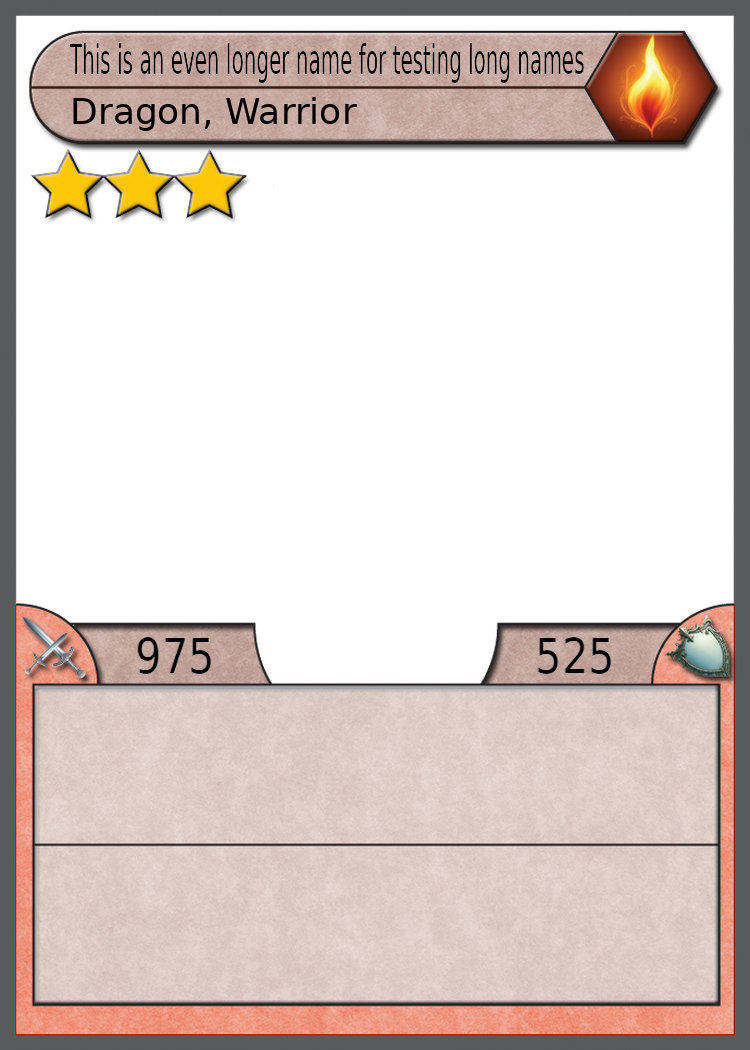
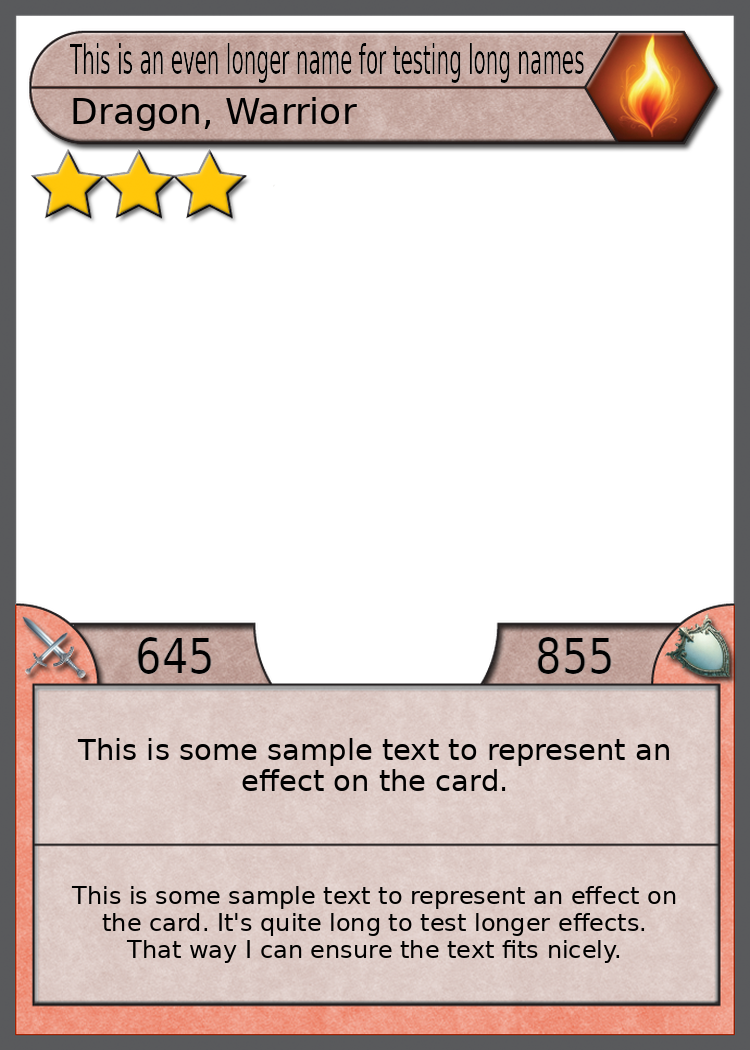
Added some effect text positioning to card generating script

diff --git a/bin/create_card.py b/bin/create_card.py
@@ -169,6 +169,68 @@ def draw_single_line_text(draw, text, top_left, bottom_right, initial_font_size=
     draw._image.paste(squished_img, (x1, y1), squished_img)
 
 
+def draw_wrapped_text(draw, text, top_left, bottom_right, initial_font_size=50, color=(0, 0, 0, 255)):
+    """
+    Draws wrapped text within a box defined by top-left and bottom-right corners,
+    auto-adjusting font size to fit vertically, with text centered both spatially
+    (vertically and horizontally in the box) and in alignment (each line center-aligned).
+    
+    Args:
+        draw (ImageDraw.Draw): The drawing context for the image.
+        text (str): The text to draw.
+        top_left (tuple): (x, y) coordinates of the top-left corner of the box.
+        bottom_right (tuple): (x, y) coordinates of the bottom-right corner of the box.
+        initial_font_size (int): Starting font size to try (default 50).
+        color (tuple): RGBA color tuple (default black: (0, 0, 0, 255)).
+    """
+    import textwrap
+
+    # Calculate box dimensions
+    x1, y1 = top_left
+    x2, y2 = bottom_right        
+    box_width = x2 - x1
+    box_height = y2 - y1
+
+    # Use DejaVu Sans font
+    font_path = "/usr/share/fonts/truetype/dejavu/DejaVuSans.ttf"
+    try:
+        font = ImageFont.truetype(font_path, initial_font_size)
+    except:
+        font = ImageFont.load_default()
+        initial_font_size = 12  # Default font is small, approximate size
+
+    # Start with initial font size and adjust downward for height
+    font_size = initial_font_size
+    while font_size > 1:
+        font = ImageFont.truetype(font_path, font_size) if font_path else ImageFont.load_default()
+
+        # Wrap text to fit box width
+        wrapped_text = textwrap.fill(text, width=int(box_width / (font_size * 0.5)))  # Rough chars-per-line estimate
+        bbox = draw.textbbox((0, 0), wrapped_text, font=font)
+        text_width = bbox[2] - bbox[0]
+        text_height = bbox[3] - bbox[1]
+
+        # Check vertical and horizontal fit
+        if text_height <= box_height and text_width <= box_width:
+            # Center the wrapped text
+            x_offset = (box_width - text_width) // 2
+            y_offset = (box_height - text_height) // 2
+            draw.text((x1 + x_offset, y1 + y_offset), wrapped_text, font=font, fill=color, align="center")
+            return
+        else:
+            font_size -= 1  # Reduce size if too tall or wide
+
+    # Fallback: Smallest size
+    font = ImageFont.truetype(font_path, font_size) if font_path else ImageFont.load_default()
+    wrapped_text = textwrap.fill(text, width=int(box_width / (font_size * 0.5)))
+    bbox = draw.textbbox((0, 0), wrapped_text, font=font)
+    text_width = bbox[2] - bbox[0]
+    text_height = bbox[3] - bbox[1]
+    x_offset = (box_width - text_width) // 2
+    y_offset = (box_height - text_height) // 2
+    draw.text((x1 + x_offset, y1 + y_offset), wrapped_text, font=font, fill=color, align="center")
+
+
 def create_card(card_data):
     """
     Creates the card.
@@ -190,6 +252,10 @@ def create_card(card_data):
     atk_y_min, atk_y_max = 628, 665
     draw_single_line_text(draw, card_data["attack"], (atk_x_min, atk_y_min), (atk_x_max, atk_y_max), initial_font_size=50, center=True)
     draw_single_line_text(draw, card_data["defense"], (width - atk_x_max, atk_y_min), (width - atk_x_min, atk_y_max), initial_font_size=50, center=True)
+    
+    # Draw effects in boxes.
+    draw_wrapped_text(draw, card_data["effect1"], (70, 710), (680, 810), initial_font_size=30)
+    draw_wrapped_text(draw, card_data["effect2"], (70, 870), (680, 970), initial_font_size=30)
 
     # Save the card
     output_file = f"ttcg_card_{card_data['name'].replace(' ', '_')}.png"
